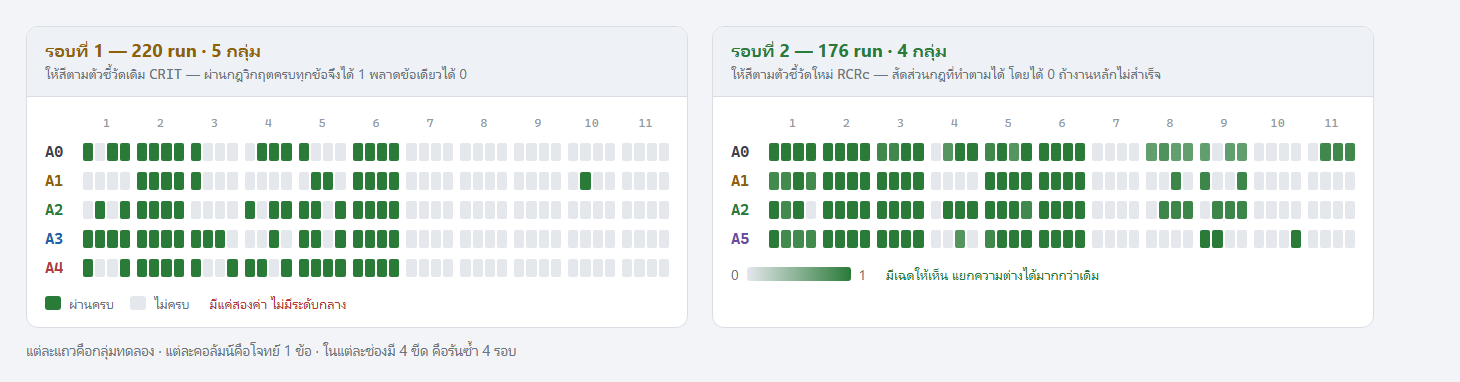
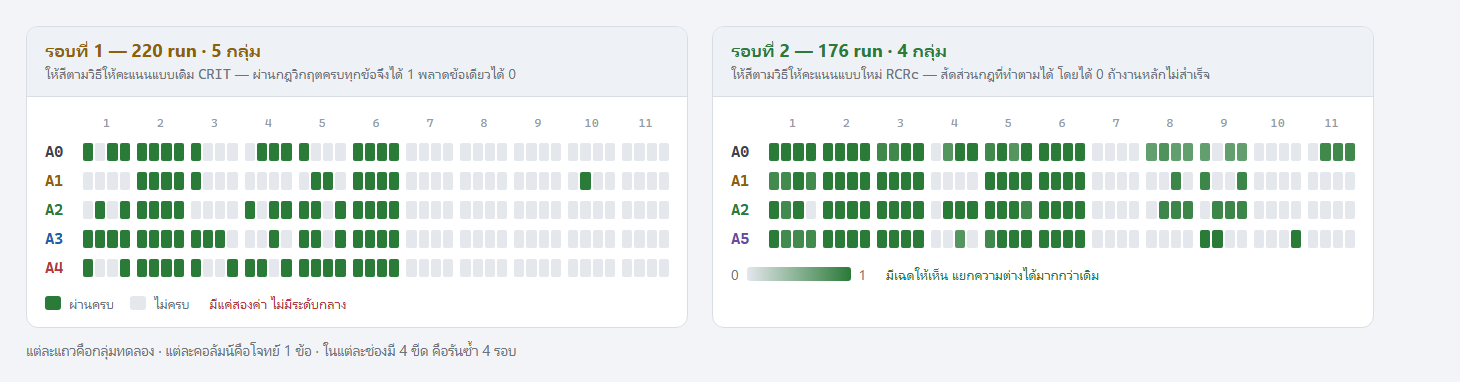
Keep one vocabulary across figures, slides and script
The script had switched from "metric" to "how we score a run" in plain
Thai, but the figures still said "metric", so the same idea had two names
depending on where the reader looked. Aligned them.

Two accuracy fixes found while reading it all back. The results table put
round 1 at 36.4% next to round 2 at 61.5% with no indication that the two
rounds score runs differently, which reads as improvement where none is
claimed; the table now names the scoring method per row and says the rows
cannot be compared. And the deck counted eight image slides when there
are nine.

fig-how-we-measure also names the one file the successful run edited,
src/lib/duration.ts, which ties that worked example back to the opening
slide's one-line change.

Changed region(s): [[0.524, 0.1728, 0.8322, 0.2304], [0.0616, 0.1728, 0.3699, 0.2304]]

diff --git a/slides-images/src/fig-runs-map.html b/slides-images/src/fig-runs-map.html
@@ -31,7 +31,7 @@
 <div class="maps">
   <div class="map r1">
     <div class="mh"><div class="t">รอบที่ 1 — 220 run · 5 กลุ่ม</div>
-      <div class="s">ให้สีตามตัวชี้วัดเดิม <span class="mono">CRIT</span> — ผ่านกฎวิกฤตครบทุกข้อจึงได้ 1 พลาดข้อเดียวได้ 0</div></div>
+      <div class="s">ให้สีตามวิธีให้คะแนนแบบเดิม <span class="mono">CRIT</span> — ผ่านกฎวิกฤตครบทุกข้อจึงได้ 1 พลาดข้อเดียวได้ 0</div></div>
     <div class="mb">
       <div class="arow"><div class="alab"></div><div class="cells"><div class="scell hd">1</div><div class="scell hd">2</div><div class="scell hd">3</div><div class="scell hd">4</div><div class="scell hd">5</div><div class="scell hd">6</div><div class="scell hd">7</div><div class="scell hd">8</div><div class="scell hd">9</div><div class="scell hd">10</div><div class="scell hd">11</div></div></div><div class="arow"><div class="alab a0">A0</div><div class="cells"><div class="scell"><i class="c" style="background:rgb(42,122,56)"></i><i class="c" style="background:#e4e7ec"></i><i class="c" style="background:rgb(42,122,56)"></i><i class="c" style="background:rgb(42,122,56)"></i></div><div class="scell"><i class="c" style="background:rgb(42,122,56)"></i><i class="c" style="background:rgb(42,122,56)"></i><i class="c" style="background:rgb(42,122,56)"></i><i class="c" style="background:rgb(42,122,56)"></i></div><div class="scell"><i class="c" style="background:rgb(42,122,56)"></i><i class="c" style="background:#e4e7ec"></i><i class="c" style="background:#e4e7ec"></i><i class="c" style="background:#e4e7ec"></i></div><div class="scell"><i class="c" style="background:#e4e7ec"></i><i class="c" style="background:rgb(42,122,56)"></i><i class="c" style="background:rgb(42,122,56)"></i><i class="c" style="background:rgb(42,122,56)"></i></div><div class="scell"><i class="c" style="background:rgb(42,122,56)"></i><i class="c" style="background:#e4e7ec"></i><i class="c" style="background:#e4e7ec"></i><i class="c" style="background:#e4e7ec"></i></div><div class="scell"><i class="c" style="background:rgb(42,122,56)"></i><i class="c" style="background:rgb(42,122,56)"></i><i class="c" style="background:rgb(42,122,56)"></i><i class="c" style="background:rgb(42,122,56)"></i></div><div class="scell"><i class="c" style="background:#e4e7ec"></i><i class="c" style="background:#e4e7ec"></i><i class="c" style="background:#e4e7ec"></i><i class="c" style="background:#e4e7ec"></i></div><div class="scell"><i class="c" style="background:#e4e7ec"></i><i class="c" style="background:#e4e7ec"></i><i class="c" style="background:#e4e7ec"></i><i class="c" style="background:#e4e7ec"></i></div><div class="scell"><i class="c" style="background:#e4e7ec"></i><i class="c" style="background:#e4e7ec"></i><i class="c" style="background:#e4e7ec"></i><i class="c" style="background:#e4e7ec"></i></div><div class="scell"><i class="c" style="background:#e4e7ec"></i><i class="c" style="background:#e4e7ec"></i><i class="c" style="background:#e4e7ec"></i><i class="c" style="background:#e4e7ec"></i></div><div class="scell"><i class="c" style="background:#e4e7ec"></i><i class="c" style="background:#e4e7ec"></i><i class="c" style="background:#e4e7ec"></i><i class="c" style="background:#e4e7ec"></i></div></div></div><div class="arow"><div class="alab a1">A1</div><div class="cells"><div class="scell"><i class="c" style="background:#e4e7ec"></i><i class="c" style="background:#e4e7ec"></i><i class="c" style="background:#e4e7ec"></i><i class="c" style="background:#e4e7ec"></i></div><div class="scell"><i class="c" style="background:rgb(42,122,56)"></i><i class="c" style="background:rgb(42,122,56)"></i><i class="c" style="background:rgb(42,122,56)"></i><i class="c" style="background:rgb(42,122,56)"></i></div><div class="scell"><i class="c" style="background:rgb(42,122,56)"></i><i class="c" style="background:#e4e7ec"></i><i class="c" style="background:#e4e7ec"></i><i class="c" style="background:#e4e7ec"></i></div><div class="scell"><i class="c" style="background:#e4e7ec"></i><i class="c" style="background:#e4e7ec"></i><i class="c" style="background:#e4e7ec"></i><i class="c" style="background:#e4e7ec"></i></div><div class="scell"><i class="c" style="background:#e4e7ec"></i><i class="c" style="background:rgb(42,122,56)"></i><i class="c" style="background:rgb(42,122,56)"></i><i class="c" style="background:#e4e7ec"></i></div><div class="scell"><i class="c" style="background:rgb(42,122,56)"></i><i class="c" style="background:rgb(42,122,56)"></i><i class="c" style="background:rgb(42,122,56)"></i><i class="c" style="background:rgb(42,122,56)"></i></div><div class="scell"><i class="c" style="background:#e4e7ec"></i><i class="c" style="background:#e4e7ec"></i><i class="c" style="background:#e4e7ec"></i><i class="c" style="background:#e4e7ec"></i></div><div class="scell"><i class="c" style="background:#e4e7ec"></i><i class="c" style="background:#e4e7ec"></i><i class="c" style="background:#e4e7ec"></i><i class="c" style="background:#e4e7ec"></i></div><div class="scell"><i class="c" style="background:#e4e7ec"></i><i class="c" style="background:#e4e7ec"></i><i class="c" style="background:#e4e7ec"></i><i class="c" style="background:#e4e7ec"></i></div><div class="scell"><i class="c" style="background:#e4e7ec"></i><i class="c" style="background:rgb(42,122,56)"></i><i class="c" style="background:#e4e7ec"></i><i class="c" style="background:#e4e7ec"></i></div><div class="scell"><i class="c" style="background:#e4e7ec"></i><i class="c" style="background:#e4e7ec"></i><i class="c" style="background:#e4e7ec"></i><i class="c" style="background:#e4e7ec"></i></div></div></div><div class="arow"><div class="alab a2">A2</div><div class="cells"><div class="scell"><i class="c" style="background:#e4e7ec"></i><i class="c" style="background:rgb(42,122,56)"></i><i class="c" style="background:#e4e7ec"></i><i class="c" style="background:rgb(42,122,56)"></i></div><div class="scell"><i class="c" style="background:rgb(42,122,56)"></i><i class="c" style="background:rgb(42,122,56)"></i><i class="c" style="background:rgb(42,122,56)"></i><i class="c" style="background:rgb(42,122,56)"></i></div><div class="scell"><i class="c" style="background:#e4e7ec"></i><i class="c" style="background:#e4e7ec"></i><i class="c" style="background:#e4e7ec"></i><i class="c" style="background:#e4e7ec"></i></div><div class="scell"><i class="c" style="background:rgb(42,122,56)"></i><i class="c" style="background:#e4e7ec"></i><i class="c" style="background:rgb(42,122,56)"></i><i class="c" style="background:rgb(42,122,56)"></i></div><div class="scell"><i class="c" style="background:rgb(42,122,56)"></i><i class="c" style="background:rgb(42,122,56)"></i><i class="c" style="background:#e4e7ec"></i><i class="c" style="background:rgb(42,122,56)"></i></div><div class="scell"><i class="c" style="background:rgb(42,122,56)"></i><i class="c" style="background:rgb(42,122,56)"></i><i class="c" style="background:rgb(42,122,56)"></i><i class="c" style="background:rgb(42,122,56)"></i></div><div class="scell"><i class="c" style="background:#e4e7ec"></i><i class="c" style="background:#e4e7ec"></i><i class="c" style="background:#e4e7ec"></i><i class="c" style="background:#e4e7ec"></i></div><div class="scell"><i class="c" style="background:#e4e7ec"></i><i class="c" style="background:#e4e7ec"></i><i class="c" style="background:#e4e7ec"></i><i class="c" style="background:#e4e7ec"></i></div><div class="scell"><i class="c" style="background:#e4e7ec"></i><i class="c" style="background:#e4e7ec"></i><i class="c" style="background:#e4e7ec"></i><i class="c" style="background:#e4e7ec"></i></div><div class="scell"><i class="c" style="background:#e4e7ec"></i><i class="c" style="background:#e4e7ec"></i><i class="c" style="background:#e4e7ec"></i><i class="c" style="background:#e4e7ec"></i></div><div class="scell"><i class="c" style="background:#e4e7ec"></i><i class="c" style="background:#e4e7ec"></i><i class="c" style="background:#e4e7ec"></i><i class="c" style="background:#e4e7ec"></i></div></div></div><div class="arow"><div class="alab a3">A3</div><div class="cells"><div class="scell"><i class="c" style="background:rgb(42,122,56)"></i><i class="c" style="background:rgb(42,122,56)"></i><i class="c" style="background:rgb(42,122,56)"></i><i class="c" style="background:rgb(42,122,56)"></i></div><div class="scell"><i class="c" style="background:rgb(42,122,56)"></i><i class="c" style="background:rgb(42,122,56)"></i><i class="c" style="background:rgb(42,122,56)"></i><i class="c" style="background:rgb(42,122,56)"></i></div><div class="scell"><i class="c" style="background:rgb(42,122,56)"></i><i class="c" style="background:rgb(42,122,56)"></i><i class="c" style="background:rgb(42,122,56)"></i><i class="c" style="background:#e4e7ec"></i></div><div class="scell"><i class="c" style="background:#e4e7ec"></i><i class="c" style="background:#e4e7ec"></i><i class="c" style="background:rgb(42,122,56)"></i><i class="c" style="background:#e4e7ec"></i></div><div class="scell"><i class="c" style="background:rgb(42,122,56)"></i><i class="c" style="background:rgb(42,122,56)"></i><i class="c" style="background:#e4e7ec"></i><i class="c" style="background:rgb(42,122,56)"></i></div><div class="scell"><i class="c" style="background:rgb(42,122,56)"></i><i class="c" style="background:rgb(42,122,56)"></i><i class="c" style="background:rgb(42,122,56)"></i><i class="c" style="background:rgb(42,122,56)"></i></div><div class="scell"><i class="c" style="background:#e4e7ec"></i><i class="c" style="background:#e4e7ec"></i><i class="c" style="background:#e4e7ec"></i><i class="c" style="background:#e4e7ec"></i></div><div class="scell"><i class="c" style="background:#e4e7ec"></i><i class="c" style="background:#e4e7ec"></i><i class="c" style="background:#e4e7ec"></i><i class="c" style="background:#e4e7ec"></i></div><div class="scell"><i class="c" style="background:#e4e7ec"></i><i class="c" style="background:#e4e7ec"></i><i class="c" style="background:#e4e7ec"></i><i class="c" style="background:#e4e7ec"></i></div><div class="scell"><i class="c" style="background:#e4e7ec"></i><i class="c" style="background:#e4e7ec"></i><i class="c" style="background:#e4e7ec"></i><i class="c" style="background:#e4e7ec"></i></div><div class="scell"><i class="c" style="background:#e4e7ec"></i><i class="c" style="background:#e4e7ec"></i><i class="c" style="background:#e4e7ec"></i><i class="c" style="background:#e4e7ec"></i></div></div></div><div class="arow"><div class="alab a4">A4</div><div class="cells"><div class="scell"><i class="c" style="background:rgb(42,122,56)"></i><i class="c" style="background:#e4e7ec"></i><i class="c" style="background:#e4e7ec"></i><i class="c" style="background:rgb(42,122,56)"></i></div><div class="scell"><i class="c" style="background:rgb(42,122,56)"></i><i class="c" style="background:rgb(42,122,56)"></i><i class="c" style="background:rgb(42,122,56)"></i><i class="c" style="background:rgb(42,122,56)"></i></div><div class="scell"><i class="c" style="background:rgb(42,122,56)"></i><i class="c" style="background:#e4e7ec"></i><i class="c" style="background:#e4e7ec"></i><i class="c" style="background:rgb(42,122,56)"></i></div><div class="scell"><i class="c" style="background:rgb(42,122,56)"></i><i class="c" style="background:rgb(42,122,56)"></i><i class="c" style="background:#e4e7ec"></i><i class="c" style="background:rgb(42,122,56)"></i></div><div class="scell"><i class="c" style="background:rgb(42,122,56)"></i><i class="c" style="background:rgb(42,122,56)"></i><i class="c" style="background:rgb(42,122,56)"></i><i class="c" style="background:rgb(42,122,56)"></i></div><div class="scell"><i class="c" style="background:rgb(42,122,56)"></i><i class="c" style="background:rgb(42,122,56)"></i><i class="c" style="background:rgb(42,122,56)"></i><i class="c" style="background:rgb(42,122,56)"></i></div><div class="scell"><i class="c" style="background:#e4e7ec"></i><i class="c" style="background:#e4e7ec"></i><i class="c" style="background:#e4e7ec"></i><i class="c" style="background:#e4e7ec"></i></div><div class="scell"><i class="c" style="background:#e4e7ec"></i><i class="c" style="background:#e4e7ec"></i><i class="c" style="background:#e4e7ec"></i><i class="c" style="background:#e4e7ec"></i></div><div class="scell"><i class="c" style="background:#e4e7ec"></i><i class="c" style="background:#e4e7ec"></i><i class="c" style="background:#e4e7ec"></i><i class="c" style="background:#e4e7ec"></i></div><div class="scell"><i class="c" style="background:#e4e7ec"></i><i class="c" style="background:#e4e7ec"></i><i class="c" style="background:#e4e7ec"></i><i class="c" style="background:#e4e7ec"></i></div><div class="scell"><i class="c" style="background:#e4e7ec"></i><i class="c" style="background:#e4e7ec"></i><i class="c" style="background:#e4e7ec"></i><i class="c" style="background:#e4e7ec"></i></div></div></div>
       <div class="lg"><i style="background:#2a7a38"></i> ผ่านครบ
@@ -42,7 +42,7 @@
 
   <div class="map r2">
     <div class="mh"><div class="t">รอบที่ 2 — 176 run · 4 กลุ่ม</div>
-      <div class="s">ให้สีตามตัวชี้วัดใหม่ <span class="mono">RCRc</span> — สัดส่วนกฎที่ทำตามได้ โดยได้ 0 ถ้างานหลักไม่สำเร็จ</div></div>
+      <div class="s">ให้สีตามวิธีให้คะแนนแบบใหม่ <span class="mono">RCRc</span> — สัดส่วนกฎที่ทำตามได้ โดยได้ 0 ถ้างานหลักไม่สำเร็จ</div></div>
     <div class="mb">
       <div class="arow"><div class="alab"></div><div class="cells"><div class="scell hd">1</div><div class="scell hd">2</div><div class="scell hd">3</div><div class="scell hd">4</div><div class="scell hd">5</div><div class="scell hd">6</div><div class="scell hd">7</div><div class="scell hd">8</div><div class="scell hd">9</div><div class="scell hd">10</div><div class="scell hd">11</div></div></div><div class="arow"><div class="alab a0">A0</div><div class="cells"><div class="scell"><i class="c" style="background:rgb(42,122,56)"></i><i class="c" style="background:rgb(42,122,56)"></i><i class="c" style="background:rgb(42,122,56)"></i><i class="c" style="background:rgb(42,122,56)"></i></div><div class="scell"><i class="c" style="background:rgb(42,122,56)"></i><i class="c" style="background:rgb(42,122,56)"></i><i class="c" style="background:rgb(42,122,56)"></i><i class="c" style="background:rgb(42,122,56)"></i></div><div class="scell"><i class="c" style="background:rgb(64,136,76)"></i><i class="c" style="background:rgb(64,136,76)"></i><i class="c" style="background:rgb(42,122,56)"></i><i class="c" style="background:rgb(42,122,56)"></i></div><div class="scell"><i class="c" style="background:#e4e7ec"></i><i class="c" style="background:rgb(85,150,96)"></i><i class="c" style="background:rgb(42,122,56)"></i><i class="c" style="background:rgb(42,122,56)"></i></div><div class="scell"><i class="c" style="background:rgb(64,136,76)"></i><i class="c" style="background:rgb(42,122,56)"></i><i class="c" style="background:rgb(85,150,96)"></i><i class="c" style="background:rgb(42,122,56)"></i></div><div class="scell"><i class="c" style="background:rgb(42,122,56)"></i><i class="c" style="background:rgb(42,122,56)"></i><i class="c" style="background:rgb(42,122,56)"></i><i class="c" style="background:rgb(42,122,56)"></i></div><div class="scell"><i class="c" style="background:#e4e7ec"></i><i class="c" style="background:#e4e7ec"></i><i class="c" style="background:#e4e7ec"></i><i class="c" style="background:#e4e7ec"></i></div><div class="scell"><i class="c" style="background:rgb(99,159,110)"></i><i class="c" style="background:rgb(80,146,92)"></i><i class="c" style="background:rgb(99,159,110)"></i><i class="c" style="background:rgb(99,159,110)"></i></div><div class="scell"><i class="c" style="background:rgb(99,159,110)"></i><i class="c" style="background:#e4e7ec"></i><i class="c" style="background:rgb(99,159,110)"></i><i class="c" style="background:rgb(99,159,110)"></i></div><div class="scell"><i class="c" style="background:#e4e7ec"></i><i class="c" style="background:#e4e7ec"></i><i class="c" style="background:#e4e7ec"></i><i class="c" style="background:#e4e7ec"></i></div><div class="scell"><i class="c" style="background:#e4e7ec"></i><i class="c" style="background:rgb(64,136,76)"></i><i class="c" style="background:rgb(64,136,76)"></i><i class="c" style="background:rgb(64,136,76)"></i></div></div></div><div class="arow"><div class="alab a1">A1</div><div class="cells"><div class="scell"><i class="c" style="background:rgb(67,138,79)"></i><i class="c" style="background:rgb(67,138,79)"></i><i class="c" style="background:rgb(42,122,56)"></i><i class="c" style="background:rgb(67,138,79)"></i></div><div class="scell"><i class="c" style="background:rgb(42,122,56)"></i><i class="c" style="background:rgb(42,122,56)"></i><i class="c" style="background:rgb(42,122,56)"></i><i class="c" style="background:rgb(42,122,56)"></i></div><div class="scell"><i class="c" style="background:rgb(42,122,56)"></i><i class="c" style="background:rgb(42,122,56)"></i><i class="c" style="background:rgb(42,122,56)"></i><i class="c" style="background:rgb(42,122,56)"></i></div><div class="scell"><i class="c" style="background:#e4e7ec"></i><i class="c" style="background:#e4e7ec"></i><i class="c" style="background:#e4e7ec"></i><i class="c" style="background:#e4e7ec"></i></div><div class="scell"><i class="c" style="background:rgb(42,122,56)"></i><i class="c" style="background:rgb(42,122,56)"></i><i class="c" style="background:rgb(42,122,56)"></i><i class="c" style="background:rgb(42,122,56)"></i></div><div class="scell"><i class="c" style="background:rgb(42,122,56)"></i><i class="c" style="background:rgb(42,122,56)"></i><i class="c" style="background:rgb(42,122,56)"></i><i class="c" style="background:rgb(42,122,56)"></i></div><div class="scell"><i class="c" style="background:#e4e7ec"></i><i class="c" style="background:#e4e7ec"></i><i class="c" style="background:#e4e7ec"></i><i class="c" style="background:#e4e7ec"></i></div><div class="scell"><i class="c" style="background:#e4e7ec"></i><i class="c" style="background:#e4e7ec"></i><i class="c" style="background:rgb(61,134,74)"></i><i class="c" style="background:#e4e7ec"></i></div><div class="scell"><i class="c" style="background:rgb(61,134,74)"></i><i class="c" style="background:#e4e7ec"></i><i class="c" style="background:#e4e7ec"></i><i class="c" style="background:rgb(61,134,74)"></i></div><div class="scell"><i class="c" style="background:#e4e7ec"></i><i class="c" style="background:#e4e7ec"></i><i class="c" style="background:#e4e7ec"></i><i class="c" style="background:#e4e7ec"></i></div><div class="scell"><i class="c" style="background:#e4e7ec"></i><i class="c" style="background:#e4e7ec"></i><i class="c" style="background:#e4e7ec"></i><i class="c" style="background:#e4e7ec"></i></div></div></div><div class="arow"><div class="alab a2">A2</div><div class="cells"><div class="scell"><i class="c" style="background:rgb(42,122,56)"></i><i class="c" style="background:rgb(67,138,79)"></i><i class="c" style="background:rgb(42,122,56)"></i><i class="c" style="background:#e4e7ec"></i></div><div class="scell"><i class="c" style="background:rgb(42,122,56)"></i><i class="c" style="background:rgb(42,122,56)"></i><i class="c" style="background:rgb(42,122,56)"></i><i class="c" style="background:rgb(42,122,56)"></i></div><div class="scell"><i class="c" style="background:rgb(42,122,56)"></i><i class="c" style="background:rgb(42,122,56)"></i><i class="c" style="background:rgb(42,122,56)"></i><i class="c" style="background:rgb(42,122,56)"></i></div><div class="scell"><i class="c" style="background:#e4e7ec"></i><i class="c" style="background:rgb(42,122,56)"></i><i class="c" style="background:rgb(42,122,56)"></i><i class="c" style="background:rgb(42,122,56)"></i></div><div class="scell"><i class="c" style="background:rgb(42,122,56)"></i><i class="c" style="background:rgb(42,122,56)"></i><i class="c" style="background:rgb(42,122,56)"></i><i class="c" style="background:rgb(64,136,76)"></i></div><div class="scell"><i class="c" style="background:rgb(42,122,56)"></i><i class="c" style="background:rgb(42,122,56)"></i><i class="c" style="background:rgb(42,122,56)"></i><i class="c" style="background:rgb(42,122,56)"></i></div><div class="scell"><i class="c" style="background:#e4e7ec"></i><i class="c" style="background:#e4e7ec"></i><i class="c" style="background:#e4e7ec"></i><i class="c" style="background:#e4e7ec"></i></div><div class="scell"><i class="c" style="background:#e4e7ec"></i><i class="c" style="background:rgb(61,134,74)"></i><i class="c" style="background:rgb(61,134,74)"></i><i class="c" style="background:rgb(61,134,74)"></i></div><div class="scell"><i class="c" style="background:#e4e7ec"></i><i class="c" style="background:rgb(61,134,74)"></i><i class="c" style="background:rgb(61,134,74)"></i><i class="c" style="background:rgb(61,134,74)"></i></div><div class="scell"><i class="c" style="background:#e4e7ec"></i><i class="c" style="background:#e4e7ec"></i><i class="c" style="background:#e4e7ec"></i><i class="c" style="background:#e4e7ec"></i></div><div class="scell"><i class="c" style="background:#e4e7ec"></i><i class="c" style="background:#e4e7ec"></i><i class="c" style="background:#e4e7ec"></i><i class="c" style="background:#e4e7ec"></i></div></div></div><div class="arow"><div class="alab a5">A5</div><div class="cells"><div class="scell"><i class="c" style="background:rgb(42,122,56)"></i><i class="c" style="background:rgb(67,138,79)"></i><i class="c" style="background:rgb(67,138,79)"></i><i class="c" style="background:rgb(67,138,79)"></i></div><div class="scell"><i class="c" style="background:rgb(42,122,56)"></i><i class="c" style="background:rgb(42,122,56)"></i><i class="c" style="background:rgb(42,122,56)"></i><i class="c" style="background:rgb(42,122,56)"></i></div><div class="scell"><i class="c" style="background:rgb(42,122,56)"></i><i class="c" style="background:rgb(42,122,56)"></i><i class="c" style="background:rgb(42,122,56)"></i><i class="c" style="background:rgb(42,122,56)"></i></div><div class="scell"><i class="c" style="background:#e4e7ec"></i><i class="c" style="background:#e4e7ec"></i><i class="c" style="background:rgb(85,150,96)"></i><i class="c" style="background:#e4e7ec"></i></div><div class="scell"><i class="c" style="background:rgb(64,136,76)"></i><i class="c" style="background:rgb(42,122,56)"></i><i class="c" style="background:rgb(42,122,56)"></i><i class="c" style="background:rgb(42,122,56)"></i></div><div class="scell"><i class="c" style="background:rgb(42,122,56)"></i><i class="c" style="background:rgb(42,122,56)"></i><i class="c" style="background:rgb(42,122,56)"></i><i class="c" style="background:rgb(42,122,56)"></i></div><div class="scell"><i class="c" style="background:#e4e7ec"></i><i class="c" style="background:#e4e7ec"></i><i class="c" style="background:#e4e7ec"></i><i class="c" style="background:#e4e7ec"></i></div><div class="scell"><i class="c" style="background:#e4e7ec"></i><i class="c" style="background:#e4e7ec"></i><i class="c" style="background:#e4e7ec"></i><i class="c" style="background:#e4e7ec"></i></div><div class="scell"><i class="c" style="background:rgb(42,122,56)"></i><i class="c" style="background:rgb(42,122,56)"></i><i class="c" style="background:#e4e7ec"></i><i class="c" style="background:#e4e7ec"></i></div><div class="scell"><i class="c" style="background:#e4e7ec"></i><i class="c" style="background:#e4e7ec"></i><i class="c" style="background:#e4e7ec"></i><i class="c" style="background:rgb(42,122,56)"></i></div><div class="scell"><i class="c" style="background:#e4e7ec"></i><i class="c" style="background:#e4e7ec"></i><i class="c" style="background:#e4e7ec"></i><i class="c" style="background:#e4e7ec"></i></div></div></div>
       <div class="lg">0 <span class="grad"></span> 1

diff --git a/slides-images/src/fig-how-we-measure.html b/slides-images/src/fig-how-we-measure.html
@@ -80,7 +80,7 @@
             <td class="rh">นับ<b>จำนวนไฟล์ที่แก้</b> ต้องไม่เกิน 4</td></tr>
         <tr><td class="rid">SC_COMMIT</td><td class="rd">ห้าม commit เองโดยผู้ใช้ไม่ได้สั่ง</td>
             <td class="rh">ดู<b>ประวัติ git</b> ว่ามี commit ใหม่ไหม</td></tr>
-        <tr><td class="rid">AC3</td><td class="rd">เทสเดิมทั้งชุดต้องยังผ่าน</td>
+        <tr><td class="rid">AC3</td><td class="rd">ปรับเทสที่ขัดกับงานใหม่ แล้วเทสทั้งชุดต้องผ่าน</td>
             <td class="rh">รัน<b>ชุดเทสเดิม 34 ตัว</b>ของโปรเจกต์ ต้องผ่านหมด</td></tr>
         <tr><td class="rid">SC1</td><td class="rd">แก้ได้เฉพาะใน lib, projections และเทส</td>
             <td class="rh">ดู<b>รายชื่อไฟล์ที่แก้</b> ว่าหลุดออกนอกสามโฟลเดอร์นี้ไหม</td></tr>
@@ -111,7 +111,7 @@
             <div class="ln"><span>ทำตามได้</span><b>8</b></div>
             <div class="ln gate"><span>งานหลักสำเร็จ</span><span style="color:var(--green);font-weight:700">ใช่</span></div>
             <div class="out"><span>คะแนน</span><b>0.889</b></div>
-            <div class="why">ตกข้อเดียวคือ AC3 — เทสทั้งชุดไม่ผ่าน</div>
+            <div class="why">แก้ไฟล์เดียวคือ <span class="mono">src/lib/duration.ts</span> · ตกข้อเดียวคือ AC3 เพราะเทสเดิมไม่ผ่าน</div>
           </div>
         </div>
 

diff --git a/slides-images/src/fig-scenario-diff.html b/slides-images/src/fig-scenario-diff.html
@@ -60,7 +60,7 @@
   <span><i style="background:var(--green)"></i>skill (A2) ดีกว่า</span>
   <span><i style="background:#d4797f"></i>ไฟล์เดียว (A1) ดีกว่า</span>
   <span><i style="background:#c2c8d1"></i>เสมอ — ไม่ให้ข้อมูลในการทดสอบ</span>
-  <span style="margin-left:auto;color:var(--faint)">ค่าเฉลี่ยรายโจทย์จาก 4 run ต่อกลุ่ม · ตัวชี้วัด RCRc</span>
+  <span style="margin-left:auto;color:var(--faint)">ค่าเฉลี่ยรายโจทย์จาก 4 run ต่อกลุ่ม · คะแนน RCRc ของรอบที่ 2</span>
 </div>
 
 </div>

diff --git a/slides-images/src/fig-p-floor.html b/slides-images/src/fig-p-floor.html
@@ -71,7 +71,7 @@
       </table>
       <div class="same">
         <b>สองบรรทัดบนเท่ากันเป๊ะ — เพดานไม่เคยขยับ</b><br>
-        การซ่อมตัวชี้วัดทำให้ผลคมขึ้น แต่ไม่ได้เพิ่มจำนวนโจทย์
+        การซ่อมวิธีให้คะแนนทำให้ผลคมขึ้น แต่ไม่ได้เพิ่มจำนวนโจทย์
       </div>
     </div>
   </div>

diff --git a/slides-images/figures/README.md b/slides-images/figures/README.md
@@ -1,6 +1,7 @@
 # ภาพประกอบสำหรับแปะลงสไลด์
 
-**พื้นหลังโปร่งใส** ลากวางบนสไลด์พื้นขาวหรือพื้นอ่อนได้เลย ไม่มีกรอบสี่เหลี่ยมโผล่
+**พื้นหลังทึบสีอ่อน** (`#f2f4f7` การ์ดข้างในสีขาว) ลากวางบนสไลด์สีอะไรก็ได้
+อ่านออกทั้งบนสไลด์พื้นขาว พื้นสี และพื้นมืด
 
 ภาพพวกนี้เป็น **ภาพประกอบอย่างเดียว** ไม่มีหัวเรื่อง ไม่มีคำบรรยายใต้หัว
 และไม่มีแถบสรุปท้ายภาพ — **หัวข้อกับข้อสรุปใส่เองบนสไลด์**
@@ -8,17 +9,17 @@
 
 | ไฟล์ | สไลด์ | แสดงอะไร | ขนาด |
 |---|---|---|---|
-| `fig-retro-impact.png` | **1** | สไลด์เปิด — S08 แก้ 1 บรรทัด แล้วใบแจ้งหนี้ย้อนหลังเปลี่ยน | 1360 × 468 |
-| `fig-fixture.png` | 3 | สนามทดลอง ระบบจอง GPU — ระบบทำอะไร โค้ดกี่ไฟล์ เอกสารอะไรบ้าง | 1420 × 470 |
-| `fig-scenarios.png` | 4 | โจทย์ 11 ข้อ คำสั่งจริง กับดัก และอัตราทำสำเร็จ | 1500 × 690 |
-| `fig-arms.png` | 5 | **context และ skill ที่ใส่ให้แต่ละกลุ่มจริง** | 1520 × 560 |
-| `fig-same-rule.png` | 6 | กฎข้อเดียวกันในรูป CLAUDE.md กับรูป SKILL.md | 1460 × 640 |
-| `fig-how-we-measure.png` | **7** | **ให้คะแนนยังไง** — หลักฐานที่เก็บ · กฎที่ตรวจ · สอง run จริง | 1600 × 455 |
-| `fig-runs-map.png` | 8 | แผนที่ 396 run ทั้งสองรอบ | 1420 × 340 |
-| `fig-effort.png` | 8 | แถบตัวเลขต้นทุน — วางเหนือ `fig-runs-map` | 1340 × 130 |
-| `fig-scenario-diff.png` | 10 | ผลต่างรายโจทย์ 11 แท่ง เห็นว่า 6 ข้อเสมอ | 1140 × 530 |
-| `fig-p-floor.png` | 10 | นับโจทย์ที่ให้ข้อมูล = 5 · เพดาน 0.0625 · เทียบสองรอบ | 1270 × 330 |
-| `fig-tradeoff.png` | 11 | ทำงานสำเร็จ เทียบ ตามกฎ พร้อมกล่องข้อจำกัด | 1420 × 400 |
+| `fig-retro-impact.png` | **1** | สไลด์เปิด — S08 แก้ 1 บรรทัด แล้วใบแจ้งหนี้ย้อนหลังเปลี่ยน | 1400 × 482 |
+| `fig-fixture.png` | 3 | สนามทดลอง ระบบจอง GPU — ระบบทำอะไร โค้ดกี่ไฟล์ เอกสารอะไรบ้าง | 1460 × 516 |
+| `fig-scenarios.png` | 4 | โจทย์ 11 ข้อ คำสั่งจริง กับดัก และอัตราทำสำเร็จ | 1540 × 740 |
+| `fig-arms.png` | 5 | **context และ skill ที่ใส่ให้แต่ละกลุ่มจริง** | 1560 × 590 |
+| `fig-same-rule.png` | 6 | กฎข้อเดียวกันในรูป CLAUDE.md กับรูป SKILL.md | 1500 × 738 |
+| `fig-how-we-measure.png` | **7** | **ให้คะแนนยังไง** — หลักฐานที่เก็บ · กฎที่ตรวจ · สอง run จริง | 1640 × 462 |
+| `fig-runs-map.png` | 8 | แผนที่ 396 run ทั้งสองรอบ | 1460 × 382 |
+| `fig-effort.png` | 8 | แถบตัวเลขต้นทุน — วางเหนือ `fig-runs-map` | 1380 × 152 |
+| `fig-scenario-diff.png` | 10 | ผลต่างรายโจทย์ 11 แท่ง เห็นว่า 6 ข้อเสมอ | 1180 × 570 |
+| `fig-p-floor.png` | 10 | นับโจทย์ที่ให้ข้อมูล = 5 · เพดาน 0.0625 · เทียบสองรอบ | 1310 × 356 |
+| `fig-tradeoff.png` | 11 | ทำงานสำเร็จ เทียบ ตามกฎ พร้อมกล่องข้อจำกัด | 1460 × 428 |
 
 ## ทุกตัวเลขมาจากข้อมูลจริง
 
@@ -34,10 +35,11 @@
 | `fig-runs-map` · `fig-effort` | **สร้างจากข้อมูลด้วยสคริปต์** |
 | `fig-tradeoff` | `results-study2/numbers.json` |
 
-## ถ้าเด็คเป็นธีมมืด
+## ถ้าอยากได้ธีมมืด
 
-ตอนนี้ตัวหนังสือเป็นสีเข้ม สำหรับวางบนพื้นขาว
-ถ้าจะใช้กับสไลด์พื้นมืด ให้สลับค่าสีใน `../src/_fig.css` **บล็อก `:root` บล็อกเดียว**
+ชุดนี้เป็นพื้นอ่อนตัวหนังสือเข้ม ซึ่ง**วางบนสไลด์พื้นมืดก็ยังอ่านออก** เพราะภาพมีพื้นของตัวเอง
+แต่ถ้าอยากให้ภาพกลืนไปกับเด็คธีมมืดจริง ๆ ให้สลับค่าสีใน `../src/_fig.css`
+**บล็อก `:root` บล็อกเดียว** (อย่างน้อยต้องสลับ `--bg` `--card` `--ink` `--line`)
 แล้วเรนเดอร์ใหม่ทั้งชุด ไม่ต้องแก้ไฟล์ภาพทีละไฟล์
 
 ## สร้างใหม่

diff --git a/progress2/SLIDES.md b/progress2/SLIDES.md
@@ -4,8 +4,8 @@
 
 > เรียงตามลำดับ **ปัญหาคืออะไร → ทำไมมันสำคัญ → เราแก้อะไร → แก้ยังไง → ผลเป็นยังไง**
 >
-> **8 สไลด์เป็นภาพ** อยู่ที่ `slides-images/figures/` พื้นหลังโปร่งใส
-> ลากวางบนสไลด์ได้เลย แล้ว**ใส่หัวข้อเอง**ตามที่เขียนไว้ในแต่ละสไลด์ข้างล่าง
+> **9 ใน 12 สไลด์เป็นภาพ** อยู่ที่ `slides-images/figures/` **พื้นหลังทึบสีอ่อน**
+> ลากวางบนสไลด์สีอะไรก็ได้ แล้ว**ใส่หัวข้อเอง**ตามที่เขียนไว้ในแต่ละสไลด์ข้างล่าง
 
 ---
 
@@ -123,10 +123,13 @@
 
 **หัวข้อ:** ผลออกมาแบบไหน
 
-| | skill ได้ | ไฟล์เดียวได้ | ต่างกัน | ช่วงที่เป็นไปได้ |
-|---|---:|---:|---:|---|
-| รอบที่ 1 | 36.4% | 27.3% | **+9.1 จุด** | −6.8 ถึง +27.3 |
-| รอบที่ 2 | 61.5% | 50.5% | **+11.0 จุด** | −2.1 ถึง +27.5 |
+| | วิธีให้คะแนน | skill ได้ | ไฟล์เดียวได้ | ต่างกัน | ช่วงที่เป็นไปได้ |
+|---|---|---:|---:|---:|---|
+| รอบที่ 1 | แบบเก่า | 36.4% | 27.3% | **+9.1 จุด** | −6.8 ถึง +27.3 |
+| รอบที่ 2 | แบบใหม่ | 61.5% | 50.5% | **+11.0 จุด** | −2.1 ถึง +27.5 |
+
+> ⚠ **สองรอบใช้วิธีให้คะแนนคนละแบบ ตัวเลขข้ามแถวเทียบกันไม่ได้**
+> ดูได้เฉพาะคอลัมน์ “ต่างกัน” ซึ่งเป็นการเทียบภายในรอบเดียวกัน
 
 **ใส่กล่องนี้ใหญ่ ๆ ใต้ตาราง:**
 

diff --git a/slides-images/src/README.md b/slides-images/src/README.md
@@ -2,7 +2,7 @@
 
 ## ภาพประกอบชุดปัจจุบัน — `fig-*.html` → `../figures/`
 
-**พื้นหลังโปร่งใส · ไม่มีหัวเรื่อง ไม่มีแถบสรุป** เป็นภาพประกอบล้วนสำหรับแปะลงสไลด์
+**พื้นหลังทึบสีอ่อน · ไม่มีหัวเรื่อง ไม่มีแถบสรุป** เป็นภาพประกอบล้วนสำหรับแปะลงสไลด์
 รายละเอียดว่าภาพไหนใช้สไลด์ไหน อยู่ที่ [`../figures/README.md`](../figures/README.md)
 
 สร้างใหม่ทั้งชุดด้วย
@@ -21,7 +21,7 @@ bash slides-images/src/render-figures.sh
 
 | ไฟล์ | ใช้ต่อได้ |
 |---|---|
-| `01-revenue-before.png` · `02-the-change.png` · `03-retroactive-impact.png` | ✅ เรื่อง S08 · ตัวเลข 2140→1925 ยืนยันแล้ว เทสตก 3/34 · ตอนนี้มีเวอร์ชันโปร่งใสแล้วที่ `figures/fig-retro-impact.png` |
+| `01-revenue-before.png` · `02-the-change.png` · `03-retroactive-impact.png` | ✅ เรื่อง S08 · ตัวเลข 2140→1925 ยืนยันแล้ว เทสตก 3/34 · ตอนนี้มีเวอร์ชันพื้นอ่อนแล้วที่ `figures/fig-retro-impact.png` |
 | `12-event-sourcing.png` · `13-trap-families.png` | ✅ ตัวเลขยังตรง |
 | `04-five-arms.png` | ⚠ เป็นของรอบที่ 1 (5 กลุ่ม) · รอบที่ 2 ใช้ `figures/fig-arms.png` แทน |
 | `14-collection-status.png` · `15-roadmap.png` | ⛔ ตัวเลขเก่า ห้ามใช้ |

diff --git a/progress2/README.md b/progress2/README.md
@@ -23,9 +23,9 @@
 | **ผล** | 9–11 | skill นำแต่ฟันธงไม่ได้ · ทำไมฟันธงไม่ได้ · สิ่งที่น่าสนใจที่สุดที่เจอ |
 | **บทเรียน** | 12 | สิ่งที่พลาด และเหลืออะไร |
 
-## ภาพประกอบ — 8 จาก 12 สไลด์เป็นภาพ
+## ภาพประกอบ — 9 จาก 12 สไลด์เป็นภาพ
 
-ภาพอยู่ที่ `slides-images/figures/` **พื้นหลังโปร่งใส** ลากวางบนสไลด์ได้เลย
+ภาพอยู่ที่ `slides-images/figures/` **พื้นหลังทึบสีอ่อน** ลากวางบนสไลด์สีอะไรก็ได้
 เป็นภาพประกอบล้วน **ไม่มีหัวเรื่องในภาพ** — หัวข้อใส่เองตามที่เขียนไว้ใน `SLIDES.md`
 
 รายชื่อภาพและที่มาของตัวเลขทุกตัว อยู่ที่ [`slides-images/figures/README.md`](../slides-images/figures/README.md)

diff --git a/progress2/SCRIPT.md b/progress2/SCRIPT.md
@@ -243,6 +243,9 @@
 
 > "ผลออกมาแบบนี้ครับ **skill นำทั้งสองรอบ** รอบแรกนำ 9.1 จุด รอบสองนำ 11 จุด
 >
+> ขอออกตัวก่อนนิดนึงนะครับ **สองรอบใช้วิธีให้คะแนนคนละแบบ เพราะฉะนั้นตัวเลข 36 กับ 61
+> เทียบข้ามรอบกันไม่ได้** ให้ดูเฉพาะคอลัมน์ผลต่าง ซึ่งเป็นการเทียบภายในรอบเดียวกัน
+>
 > แต่ดูคอลัมน์ขวาสุดนะครับ คอลัมน์นั้นคือช่วงที่ค่าจริงเป็นไปได้
 > **รอบสองอยู่ที่ลบ 2.1 ถึงบวก 27.5 ซึ่งยังคร่อมศูนย์อยู่**
 >
